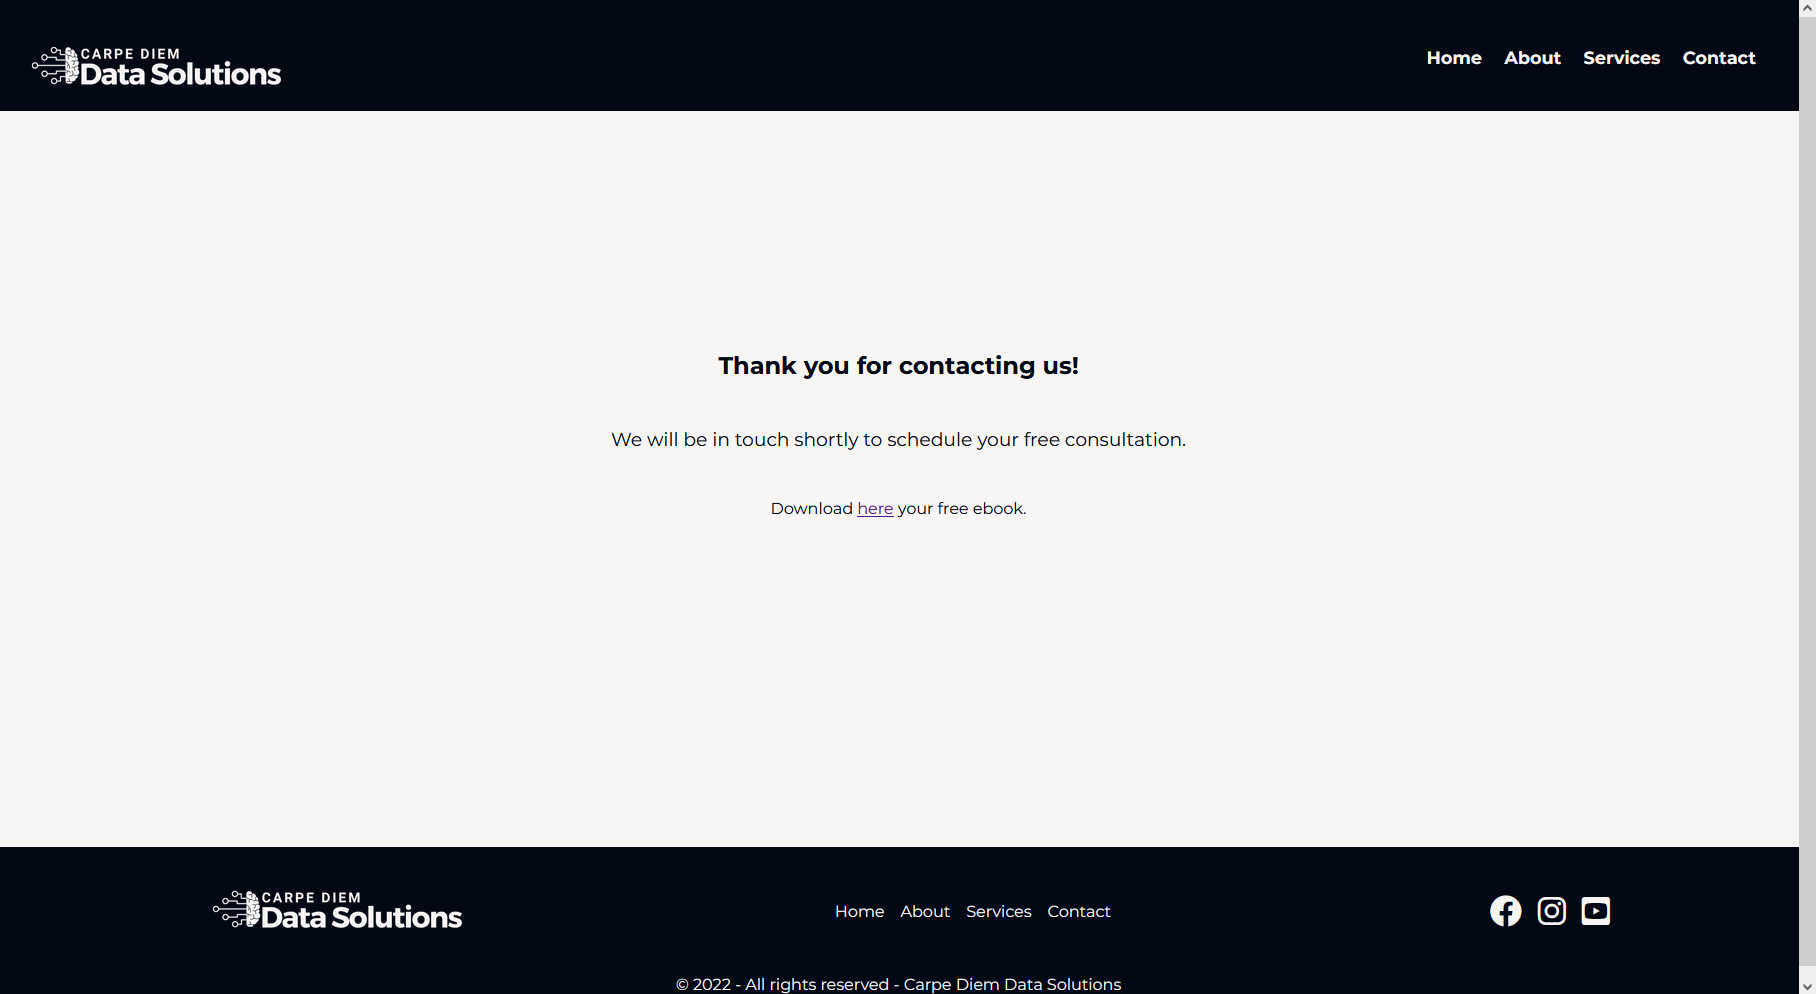
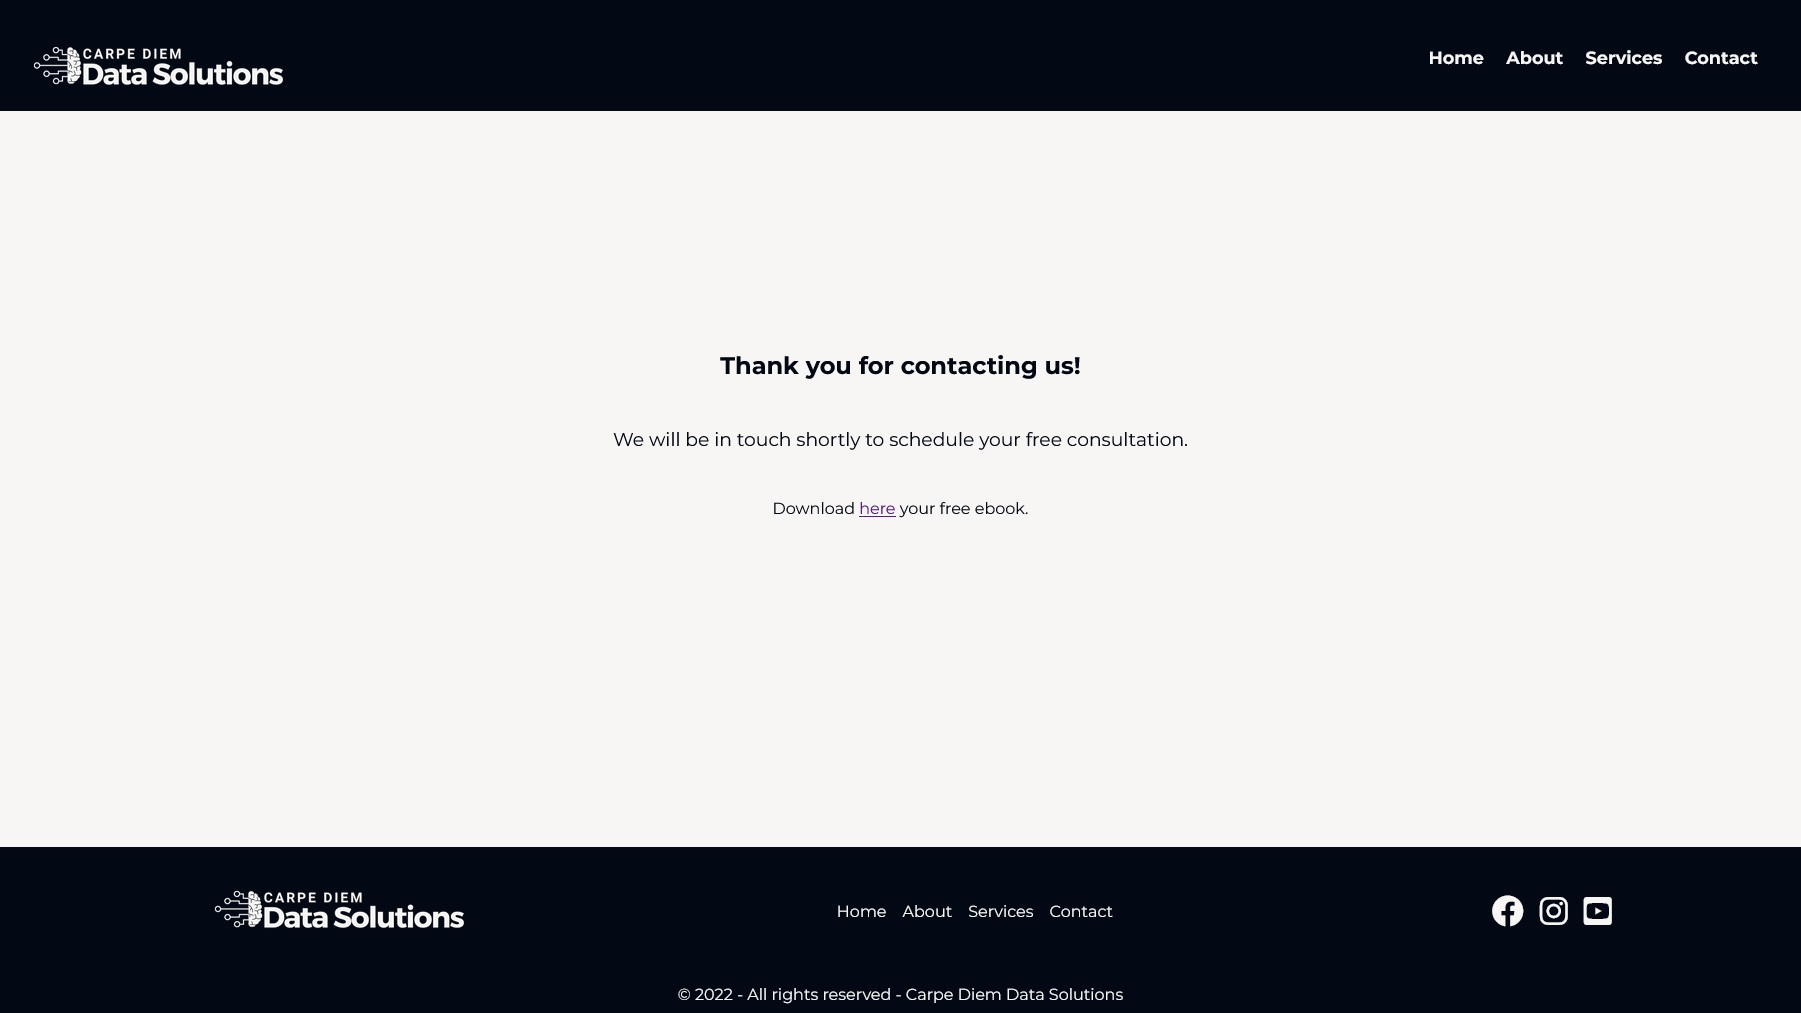
Replaced pictures thank you page and added padding to headline

diff --git a/assets/css/style.css b/assets/css/style.css
@@ -860,6 +860,8 @@ select {
 
 #thankyou-headline {
   padding-top: 15rem;
+  padding-left: 1rem;
+  padding-right: 1rem;
   font-weight: bold;
   text-align: center;
 }

diff --git a/README.md b/README.md
@@ -157,7 +157,7 @@ Please click on the links below to see the images of the navigation menu:
 <img src="./assets/images/readme/contactpage-image-mobile.jpg" alt="Mobile Contact Page Image"></details>
 
 
-[Back to About Page](<#contact-page>)
+[Back to Contact Page](<#contact-page>)
 
 ## Thank You Page
 
@@ -165,13 +165,11 @@ Please click on the links below to see the images of the navigation menu:
 Please click on the links below to see the images of the Thank You Page:
 
 
-<details><summary><b>Thank You Page - Desktop</b></summary>
-
-<p text-align=center><img src="./assets/images/readme/thankyou-page.jpg" width="120%" height="120%" alt="Thank You Page for Desktop"></details></p>
+<img src="./assets/images/readme/thankyou-page.jpg" width="100%" height="100%" alt="Thank You Page for Desktop">
 
 <details><summary><b>Thank You Page - Image Mobile</b></summary>
 
-<img src="./assets/images/readme/thankyou-page-mobile.jpg" width="50%" height="50%" alt="Thank You Page for Mobile"></details>
+<img src="./assets/images/readme/thankyou-page-mobile.jpg" alt="Thank You Page for Mobile"></details>
 
 
 ## Footer
